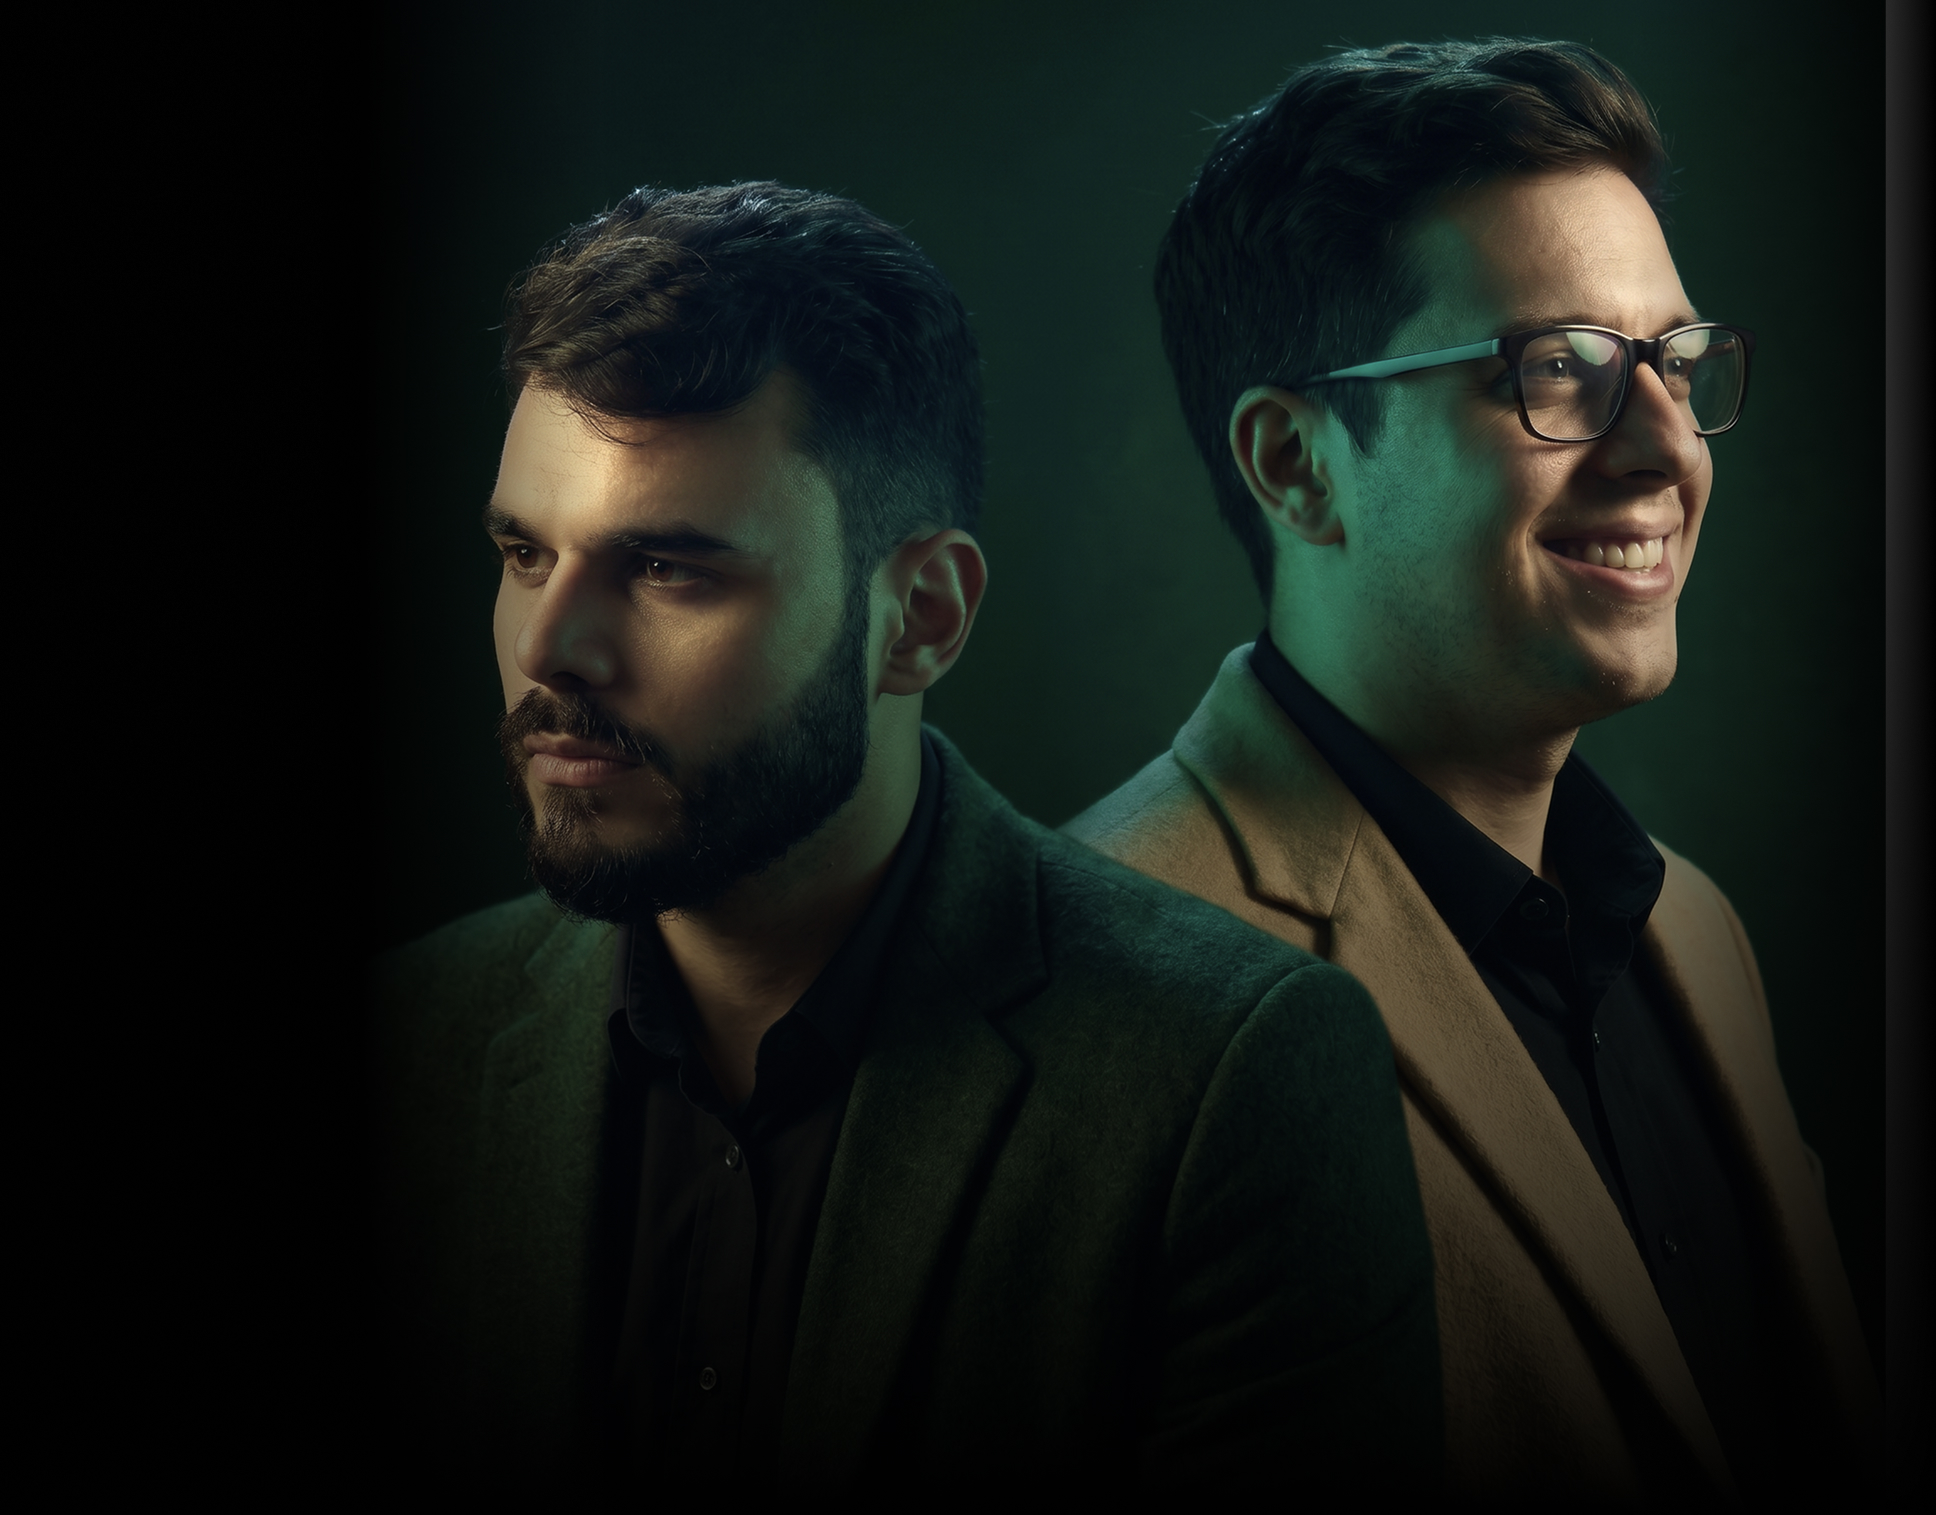
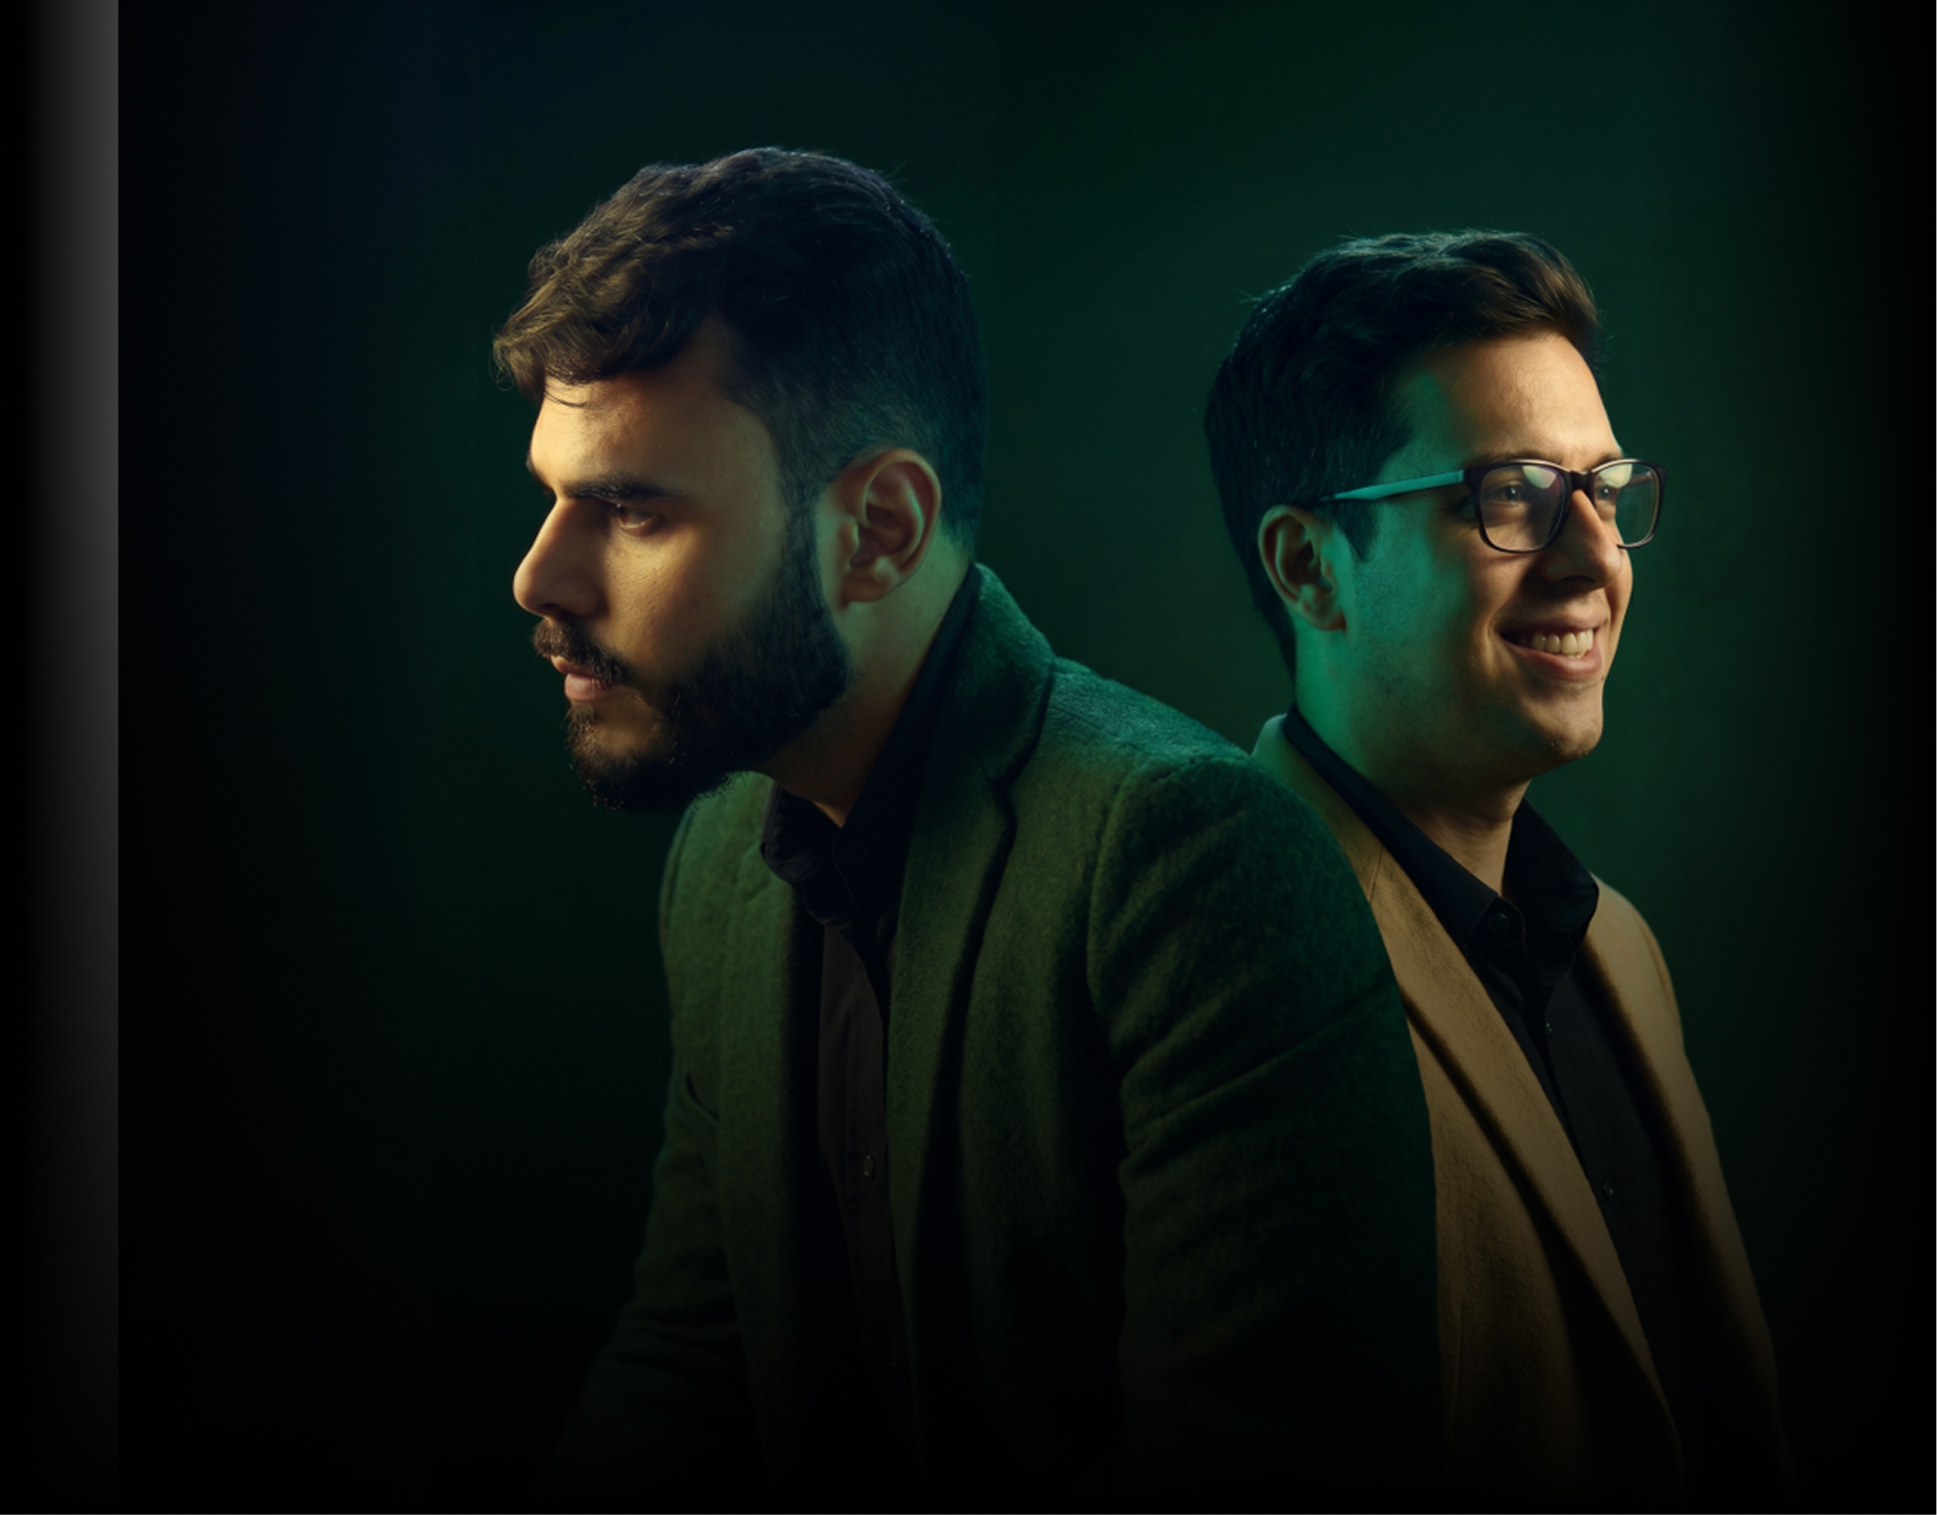
Mover blinds shader pra Ementa, hero photo maior e ajustes diversos
- Move o gradient blinds (WebGL) do hero pra dentro da seção Ementa
  e troca o listener de pointermove pro section ancestral, pra que o
  efeito acompanhe o cursor mesmo passando por cima de cards e textos
  (antes só reagia em áreas livres do canvas).
- Hero photo: largura 65→75% com offset right -8% pra puxar mais à
  direita; tags Carlos/Matheus reduzidas (1.7rem / 1rem) e Matheus
  agora aparece como "Google Developer Expert".
- Navbar: bg semi-transparente com backdrop blur por padrão e vira
  sólido (.is-scrolled) após ~8% de scroll, via listener com rAF.
- Footer: logo cresce de 2.5rem pra 4.4rem.
- Textos: "Ver os programas" → "Ver ementa", "Cadastrar" → "Faça
  parte", FAQ CTA "Quero falar com um consultor" → "Quero tentar
  uma bolsa".

diff --git a/index.html b/index.html
@@ -99,8 +99,15 @@
       position: sticky;
       top: 0;
       z-index: 100;
+      background: rgba(0, 0, 0, 0.5);
+      -webkit-backdrop-filter: blur(0.8333rem) saturate(1.2);
+      backdrop-filter: blur(0.8333rem) saturate(1.2);
+      border-bottom: 0.0694rem solid rgba(255, 255, 255, 0.06);
+      transition: background 0.35s ease, border-color 0.35s ease, backdrop-filter 0.35s ease;
+    }
+    .site-header.is-scrolled {
       background: #000;
-      border-bottom: 0.0694rem solid var(--border-soft);
+      border-bottom-color: var(--border-soft);
     }
     .nav {
       display: flex;
@@ -265,7 +272,7 @@
       inset: 0;
       width: 100%;
       height: 100%;
-      pointer-events: auto;
+      pointer-events: none;
       z-index: 0;
     }
     .stage-inner {
@@ -471,10 +478,10 @@
     .hero-photo {
       position: absolute;
       top: 0;
-      right: 0;
+      right: -8%;
       bottom: 0;
-      width: 65%;
-      max-width: 67.2222rem;
+      width: 75%;
+      max-width: 77.7778rem;
       z-index: 1;
       pointer-events: none;
       overflow: hidden;
@@ -506,7 +513,7 @@
     .hero-tag .name {
       font-family: "NexaText", "Inter", sans-serif;
       font-weight: 700;
-      font-size: 1.8056rem;
+      font-size: 1.7rem;
       line-height: 1.1;
       letter-spacing: -0.0535rem;
       color: #fff;
@@ -514,7 +521,7 @@
     .hero-tag .role {
       font-family: "NexaText", "Inter", sans-serif;
       font-weight: 400;
-      font-size: 1.0417rem;
+      font-size: 1rem;
       line-height: 1.1;
       letter-spacing: -0.0312rem;
       color: #44d62c;
@@ -3110,7 +3117,7 @@
       gap: 1.25rem;
     }
     .footer-brand .footer-logo img {
-      height: 2.5rem;
+      height: 4.4444rem;
       width: auto;
     }
     .footer-tagline {
@@ -3330,7 +3337,6 @@
   </header>
 
   <main class="stage" id="inicio">
-    <div class="bg-blinds" id="bg-blinds" aria-hidden="true"></div>
 
     <div class="stage-inner">
       <div class="hero-content">
@@ -3375,7 +3381,7 @@
         </div>
         <div class="hero-tag hero-tag-castig anim" style="--anim-delay: 850ms;">
           <span class="name">Matheus Castiglioni</span>
-          <span class="role">Ex-Senior Engineer · PayPal</span>
+          <span class="role">Google Developer Expert</span>
         </div>
       </div>
     </div>
@@ -3660,6 +3666,7 @@
 
   <!-- ===== PROGRAMAS 2026.1 — Catálogo de cursos (intentionally placed between perfil and portfolio) ===== -->
   <section class="programas" id="programas" aria-label="Programas 2026.1">
+    <div class="bg-blinds" id="bg-blinds" aria-hidden="true"></div>
     <div class="section-inner">
       <div class="programas-header">
         <div>
@@ -4198,6 +4205,26 @@
         });
       }, { threshold: 0.12, rootMargin: '0px 0px -8% 0px' });
       targets.forEach((el) => io.observe(el));
+    })();
+
+    // Navbar bg solid após uma % de scroll
+    (function () {
+      const header = document.querySelector('.site-header');
+      if (!header) return;
+      const threshold = () => Math.max(80, window.innerHeight * 0.08);
+      let ticking = false;
+      const update = () => {
+        const isScrolled = window.scrollY > threshold();
+        header.classList.toggle('is-scrolled', isScrolled);
+        ticking = false;
+      };
+      window.addEventListener('scroll', () => {
+        if (!ticking) {
+          requestAnimationFrame(update);
+          ticking = true;
+        }
+      }, { passive: true });
+      update();
     })();
 
     // Navbar scroll-spy — destaca o link da seção visível

diff --git a/js/gradient-blinds.js b/js/gradient-blinds.js
@@ -250,7 +250,11 @@ export function createGradientBlinds(container, options = {}) {
       uniforms.iMouse.value = [x, y];
     }
   };
-  canvas.addEventListener('pointermove', onPointerMove);
+  // Listen on the nearest section ancestor so the shader follows the cursor
+  // even when it's over child elements (cards, text, links) that would
+  // otherwise intercept events.
+  const eventTarget = container.closest('section') || container.parentElement || canvas;
+  eventTarget.addEventListener('pointermove', onPointerMove);
 
   const loop = (t) => {
     raf = requestAnimationFrame(loop);
@@ -282,7 +286,7 @@ export function createGradientBlinds(container, options = {}) {
     setPaused(value) { isPaused = !!value; },
     destroy() {
       if (raf) cancelAnimationFrame(raf);
-      canvas.removeEventListener('pointermove', onPointerMove);
+      eventTarget.removeEventListener('pointermove', onPointerMove);
       ro.disconnect();
       if (canvas.parentElement === container) container.removeChild(canvas);
       program?.remove?.();